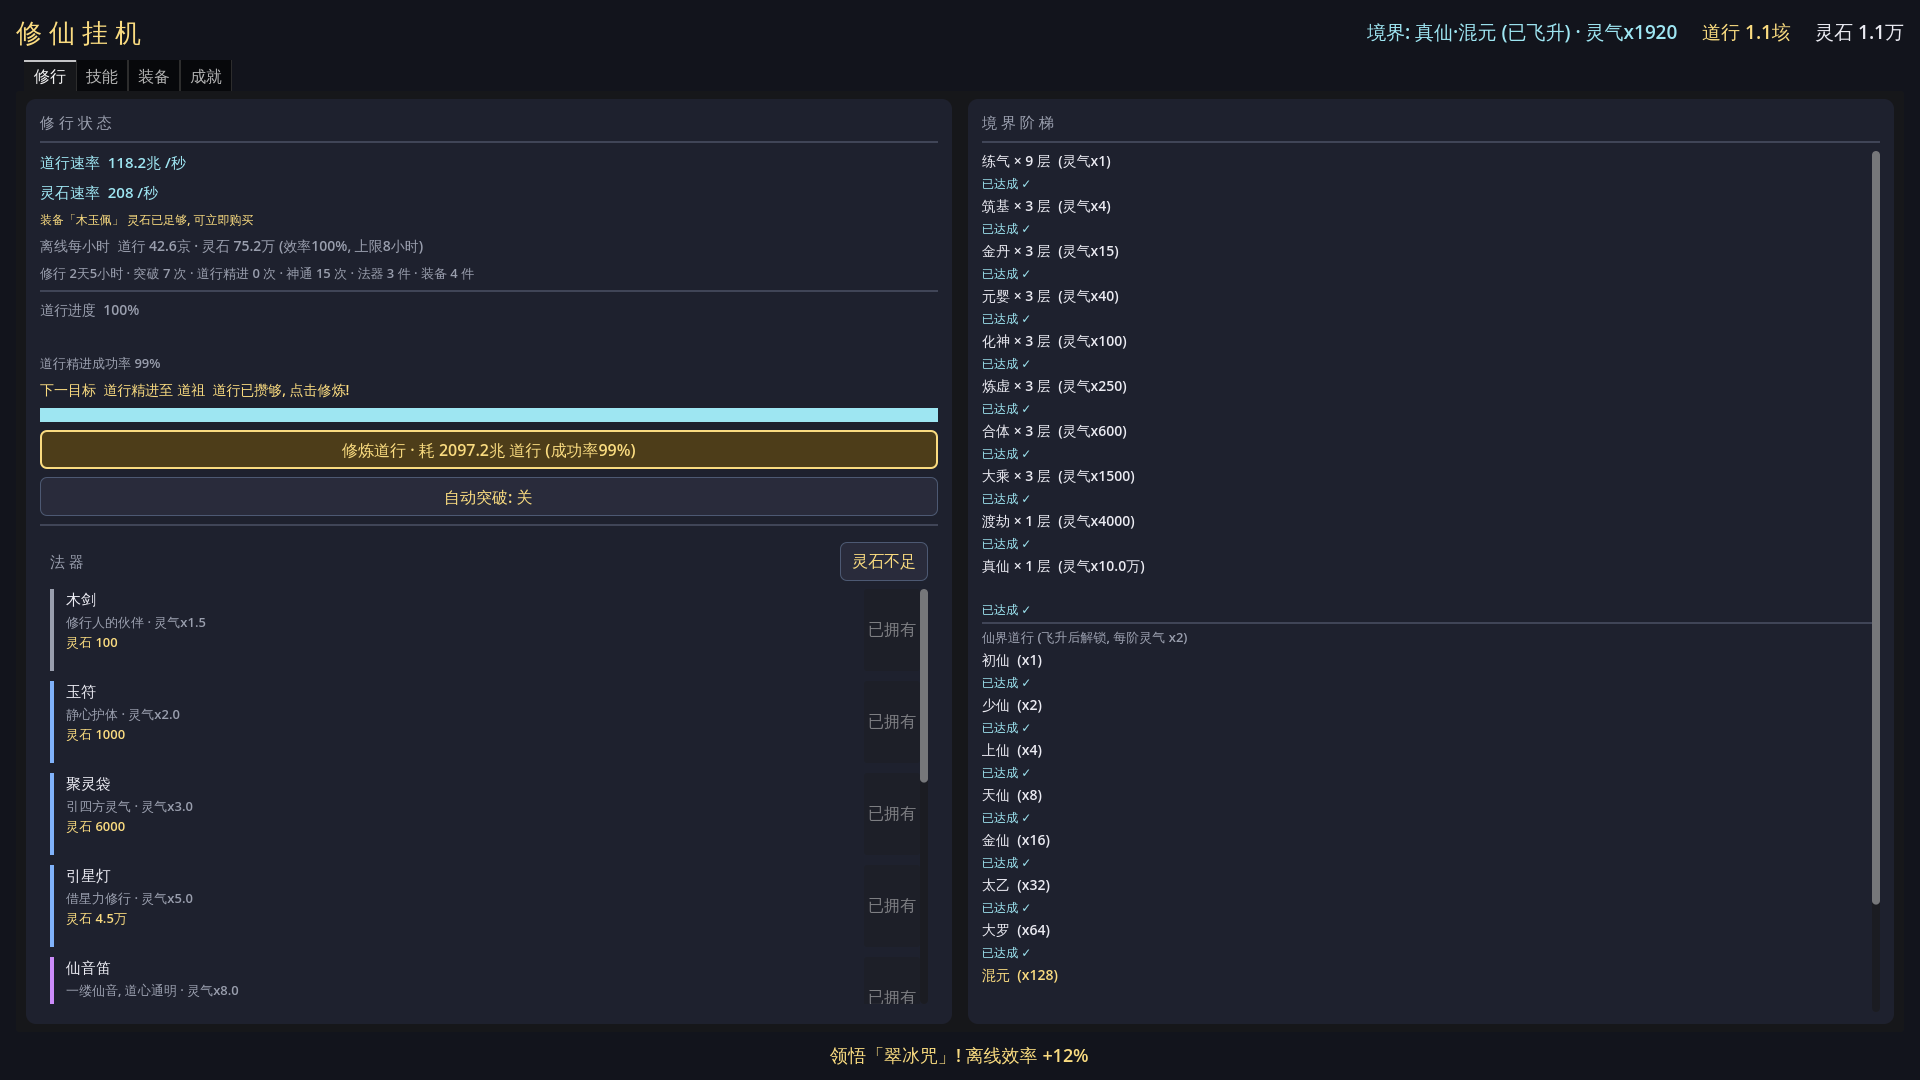
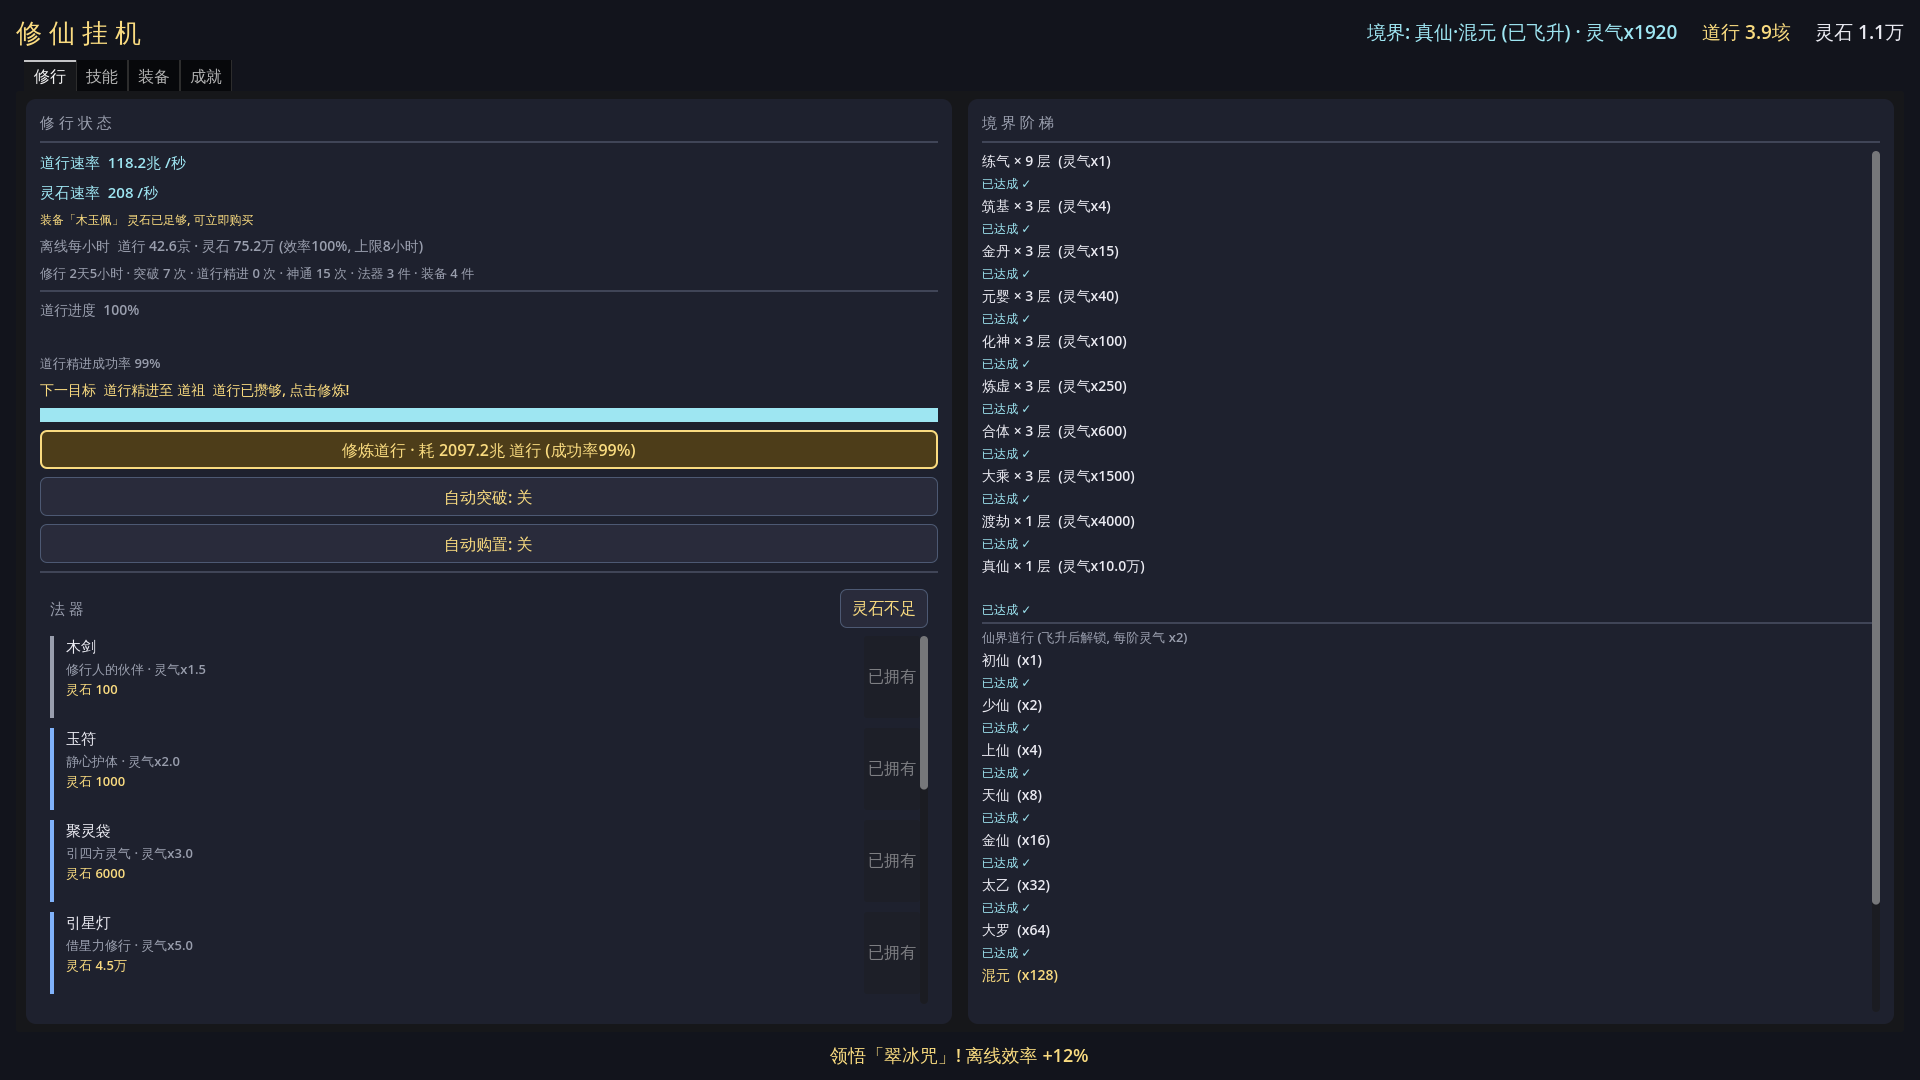
feat(打磨-68): 自动购置 — 挂机时灵石攒够仍要手动逐个点法器/装备购买, 与打磨-67自动突破口径不齐; 修行页自动突破下加"自动购置:关"开关按钮 (toggle_mode): 开启后 GameData._process 每帧自动购入未拥有法器/装备+自动最佳换装 (复用一键购置buy_items_affordable/一键购买buy_affordable/一键最佳equip_best 同口径: 价格升序连买买得起的, 槽位空自动穿戴, 各部位换上主属性最优拥有件); 性能门 最便宜未拥有件(跨法器+装备, stone_next_target口径)买不起时跳过购买连买(避免每帧1

Changed region(s): [[0.0312, 0.5194, 0.0938, 0.9167], [0.4375, 0.4889, 0.5, 0.5806], [0.2188, 0.4889, 0.2812, 0.5194]]

diff --git a/README.md b/README.md
@@ -4,7 +4,7 @@
 
 ## 玩法
 
-挂机自动积累 **灵气** 与 **灵石**，灵气攒够后点击突破境界（有成功率）；开启 **自动突破** 后攒够即自动突破/精进，无需手动点击（打磨-67）。
+挂机自动积累 **灵气** 与 **灵石**，灵气攒够后点击突破境界（有成功率）；开启 **自动突破** 后攒够即自动突破/精进（打磨-67），开启 **自动购置** 后灵石攒够即自动购买法器/装备并最佳换装（打磨-68），挂机全程无需手动点击。
 
 - **境界体系**：练气 → 筑基 → 金丹 → 元婴 → 化神 → 炼虚 → 合体 → 大乘 → 渡劫 → 真仙（飞升），境界越高挂机越快（顶栏显示当前境界灵气倍率，悬停查看构成）
 - **飞升后道行**（打磨-10）：飞升真仙界后挂机积累 **道行**，可精进 9 个阶段（初仙→道祖），每阶灵气速率 x2，给满级玩家长线挂机目标
@@ -57,9 +57,9 @@ PROJECT_PLAN.md          # 项目计划
 
 ```bash
 ~/bin/godot --headless --path .            # 无头冒烟 (应无报错, 会一直挂机运行)
-~/bin/godot --headless --path . -s res://scripts/selftest.gd   # 全流程自测 (学习/购买/穿戴/冷却/存读档/倍率/数值曲线/成就/飞升后道行/装备/技能浮动灵气速率增量/神通爆发预览/一键神通/神通冷却完毕就绪事件/神通冷却进度比例/突破成功率tooltip预期成本/突破失败浮动预期成本/突破成功浮动新境界成功率/离线收益启动金色浮动/自动突破, 789 项, 退出码 0=通过)
+~/bin/godot --headless --path . -s res://scripts/selftest.gd   # 全流程自测 (学习/购买/穿戴/冷却/存读档/倍率/数值曲线/成就/飞升后道行/装备/技能浮动灵气速率增量/神通爆发预览/一键神通/神通冷却完毕就绪事件/神通冷却进度比例/突破成功率tooltip预期成本/突破失败浮动预期成本/突破成功浮动新境界成功率/离线收益启动金色浮动/自动突破/自动购置, 813 项, 退出码 0=通过)
 ~/bin/godot --headless --path . -s res://scripts/stress_test.gd  # 数值曲线压力测试 (全境界/全品质梯度/解锁门槛一致性/后期溢出检查, 613 项, CI 可跑, 退出码 0=通过)
-~/bin/godot --headless --path . res://scenes/ui_test.tscn  # UI 断言 (成就进度条/收集条/品质色/一键系列/顶栏灵石可购进度/灵石行内联下一件可购/法器属性构成/装备/技能浮动灵气速率增量/神通爆发预览/单个神通施展浮动/一键神通/神通冷却完毕就绪浮动/神通冷却进度条/神通冷却完毕收口动画+按钮微光/一键施展浮动爆发总量/单个神通施展浮动爆发总量/冷却完毕就绪浮动爆发总量/突破成功率tooltip预期成本/突破失败浮动预期成本/突破成功浮动新境界成功率/离线收益启动金色浮动/自动突破, scene 模式带 autoload, 1429 项, 退出码 0=通过)
+~/bin/godot --headless --path . res://scenes/ui_test.tscn  # UI 断言 (成就进度条/收集条/品质色/一键系列/顶栏灵石可购进度/灵石行内联下一件可购/法器属性构成/装备/技能浮动灵气速率增量/神通爆发预览/单个神通施展浮动/一键神通/神通冷却完毕就绪浮动/神通冷却进度条/神通冷却完毕收口动画+按钮微光/一键施展浮动爆发总量/单个神通施展浮动爆发总量/冷却完毕就绪浮动爆发总量/突破成功率tooltip预期成本/突破失败浮动预期成本/突破成功浮动新境界成功率/离线收益启动金色浮动/自动突破/自动购置, scene 模式带 autoload, 1449 项, 退出码 0=通过)
 ```
 
 ## 导出 (打包)
